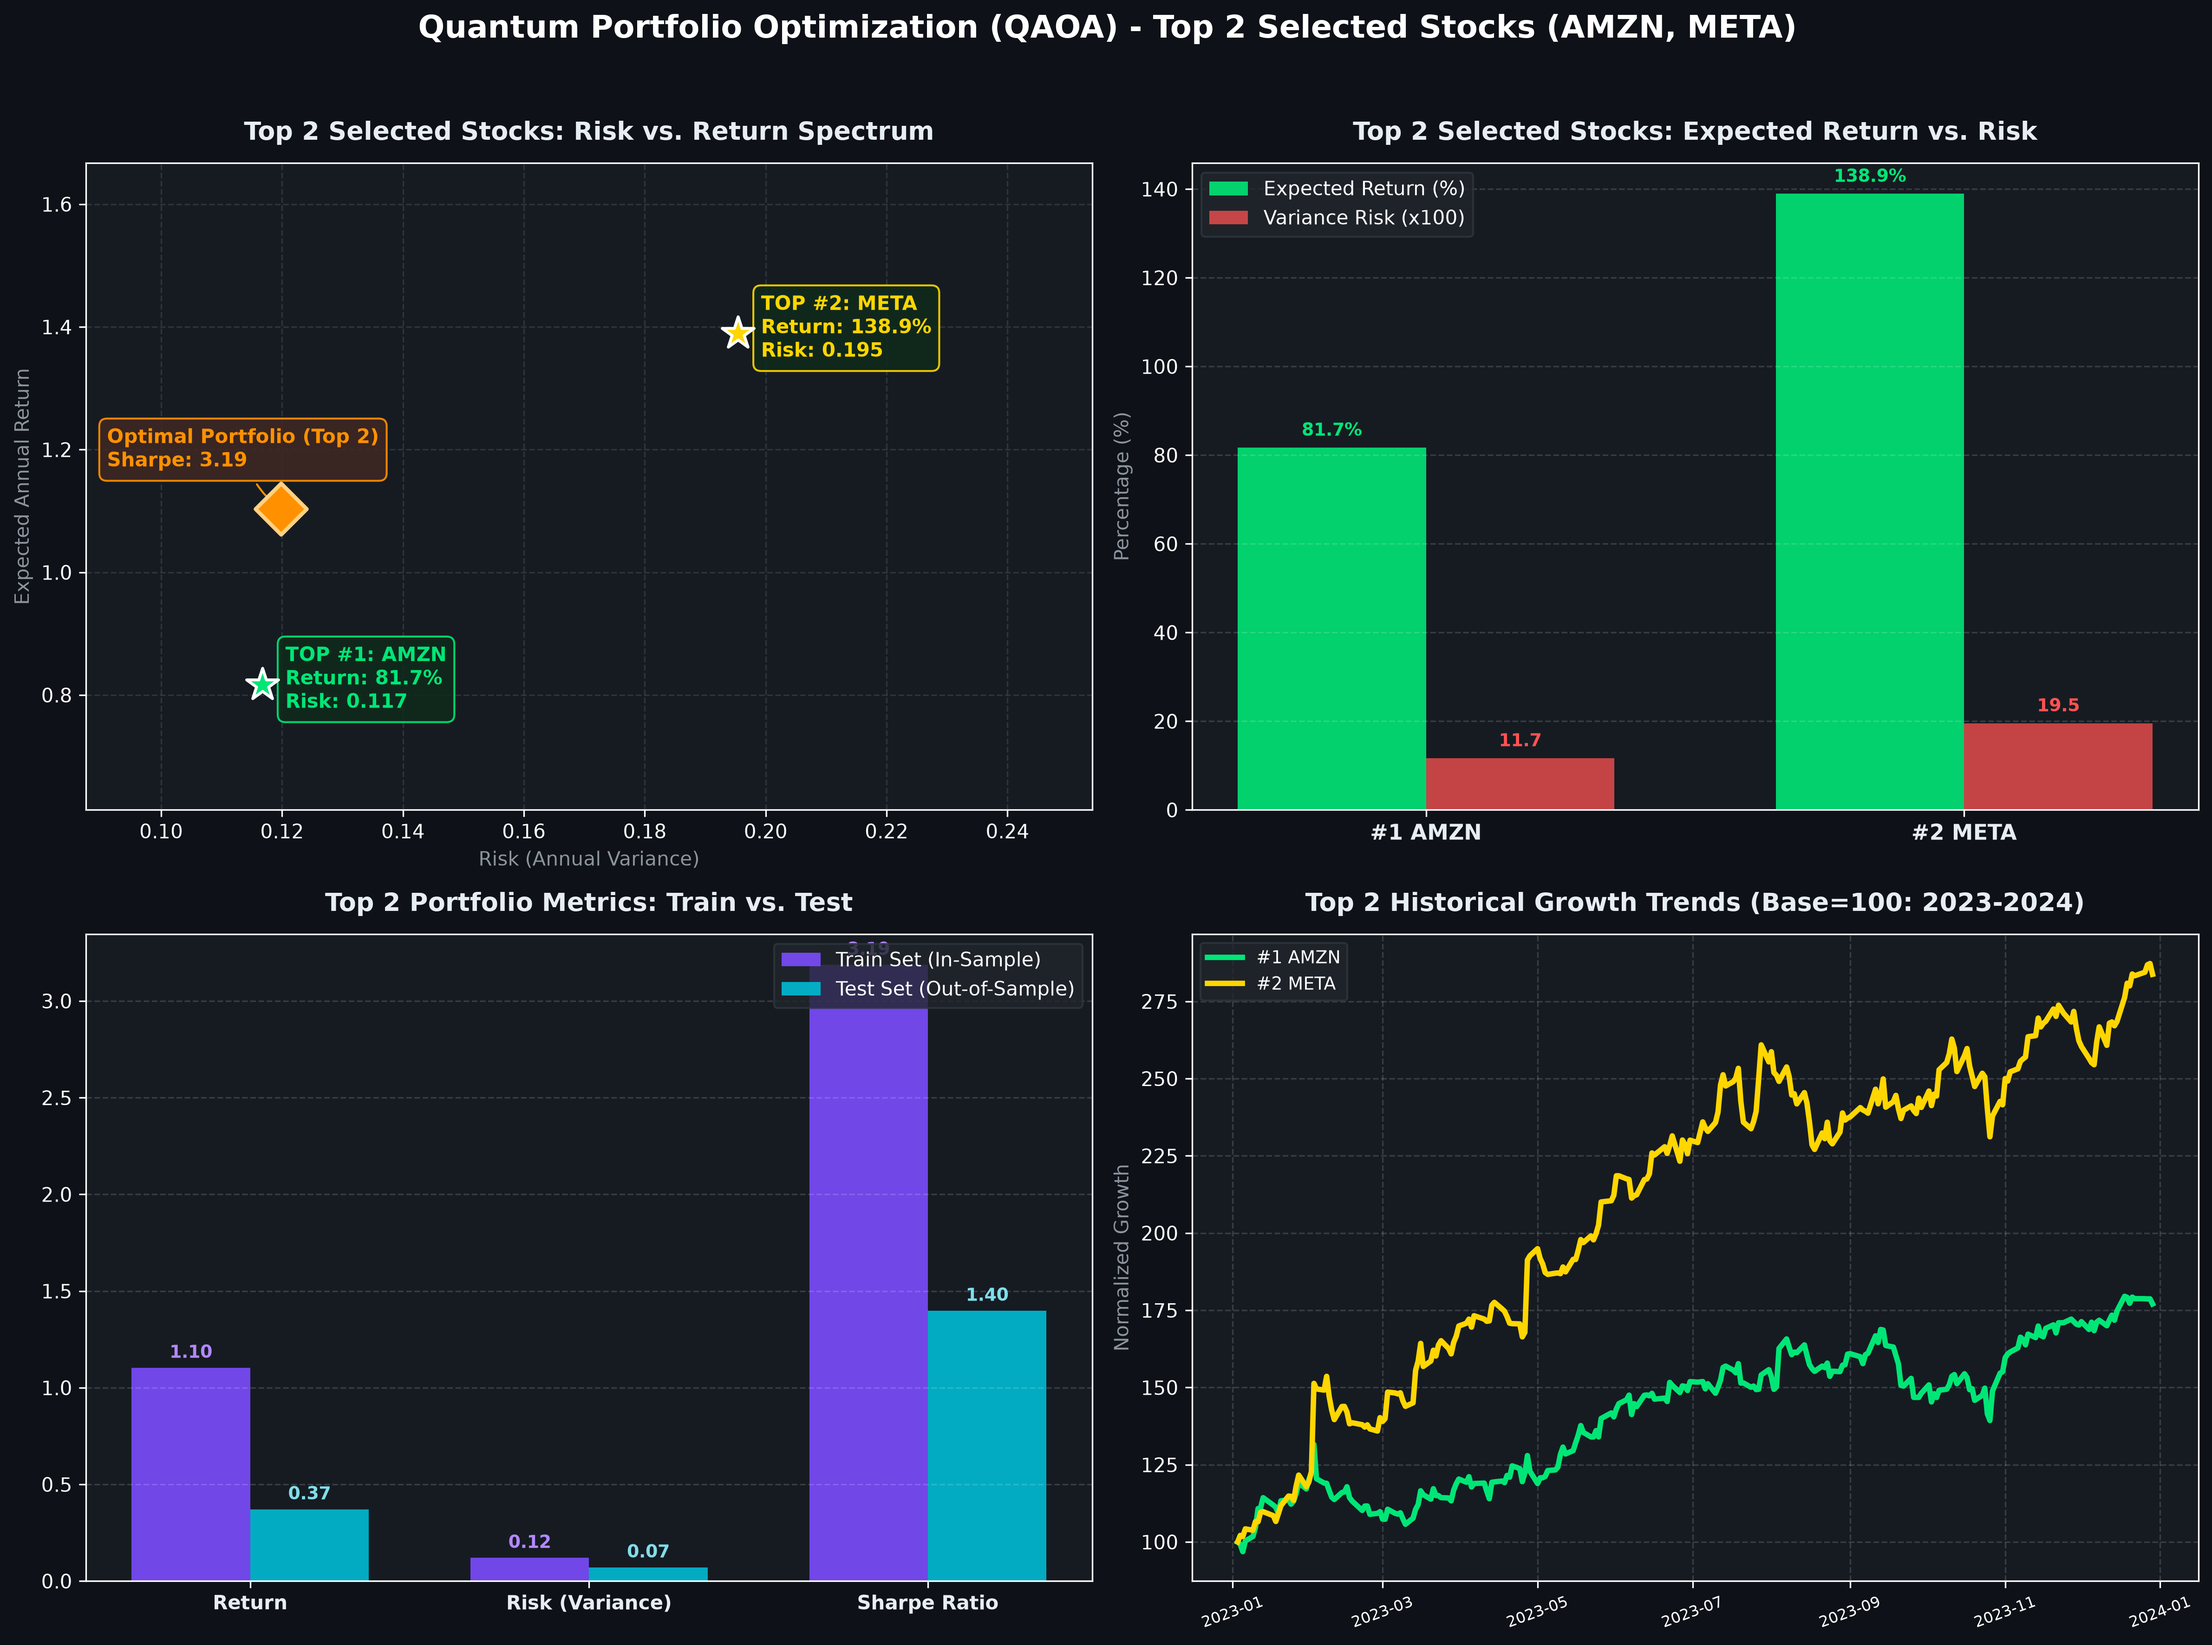
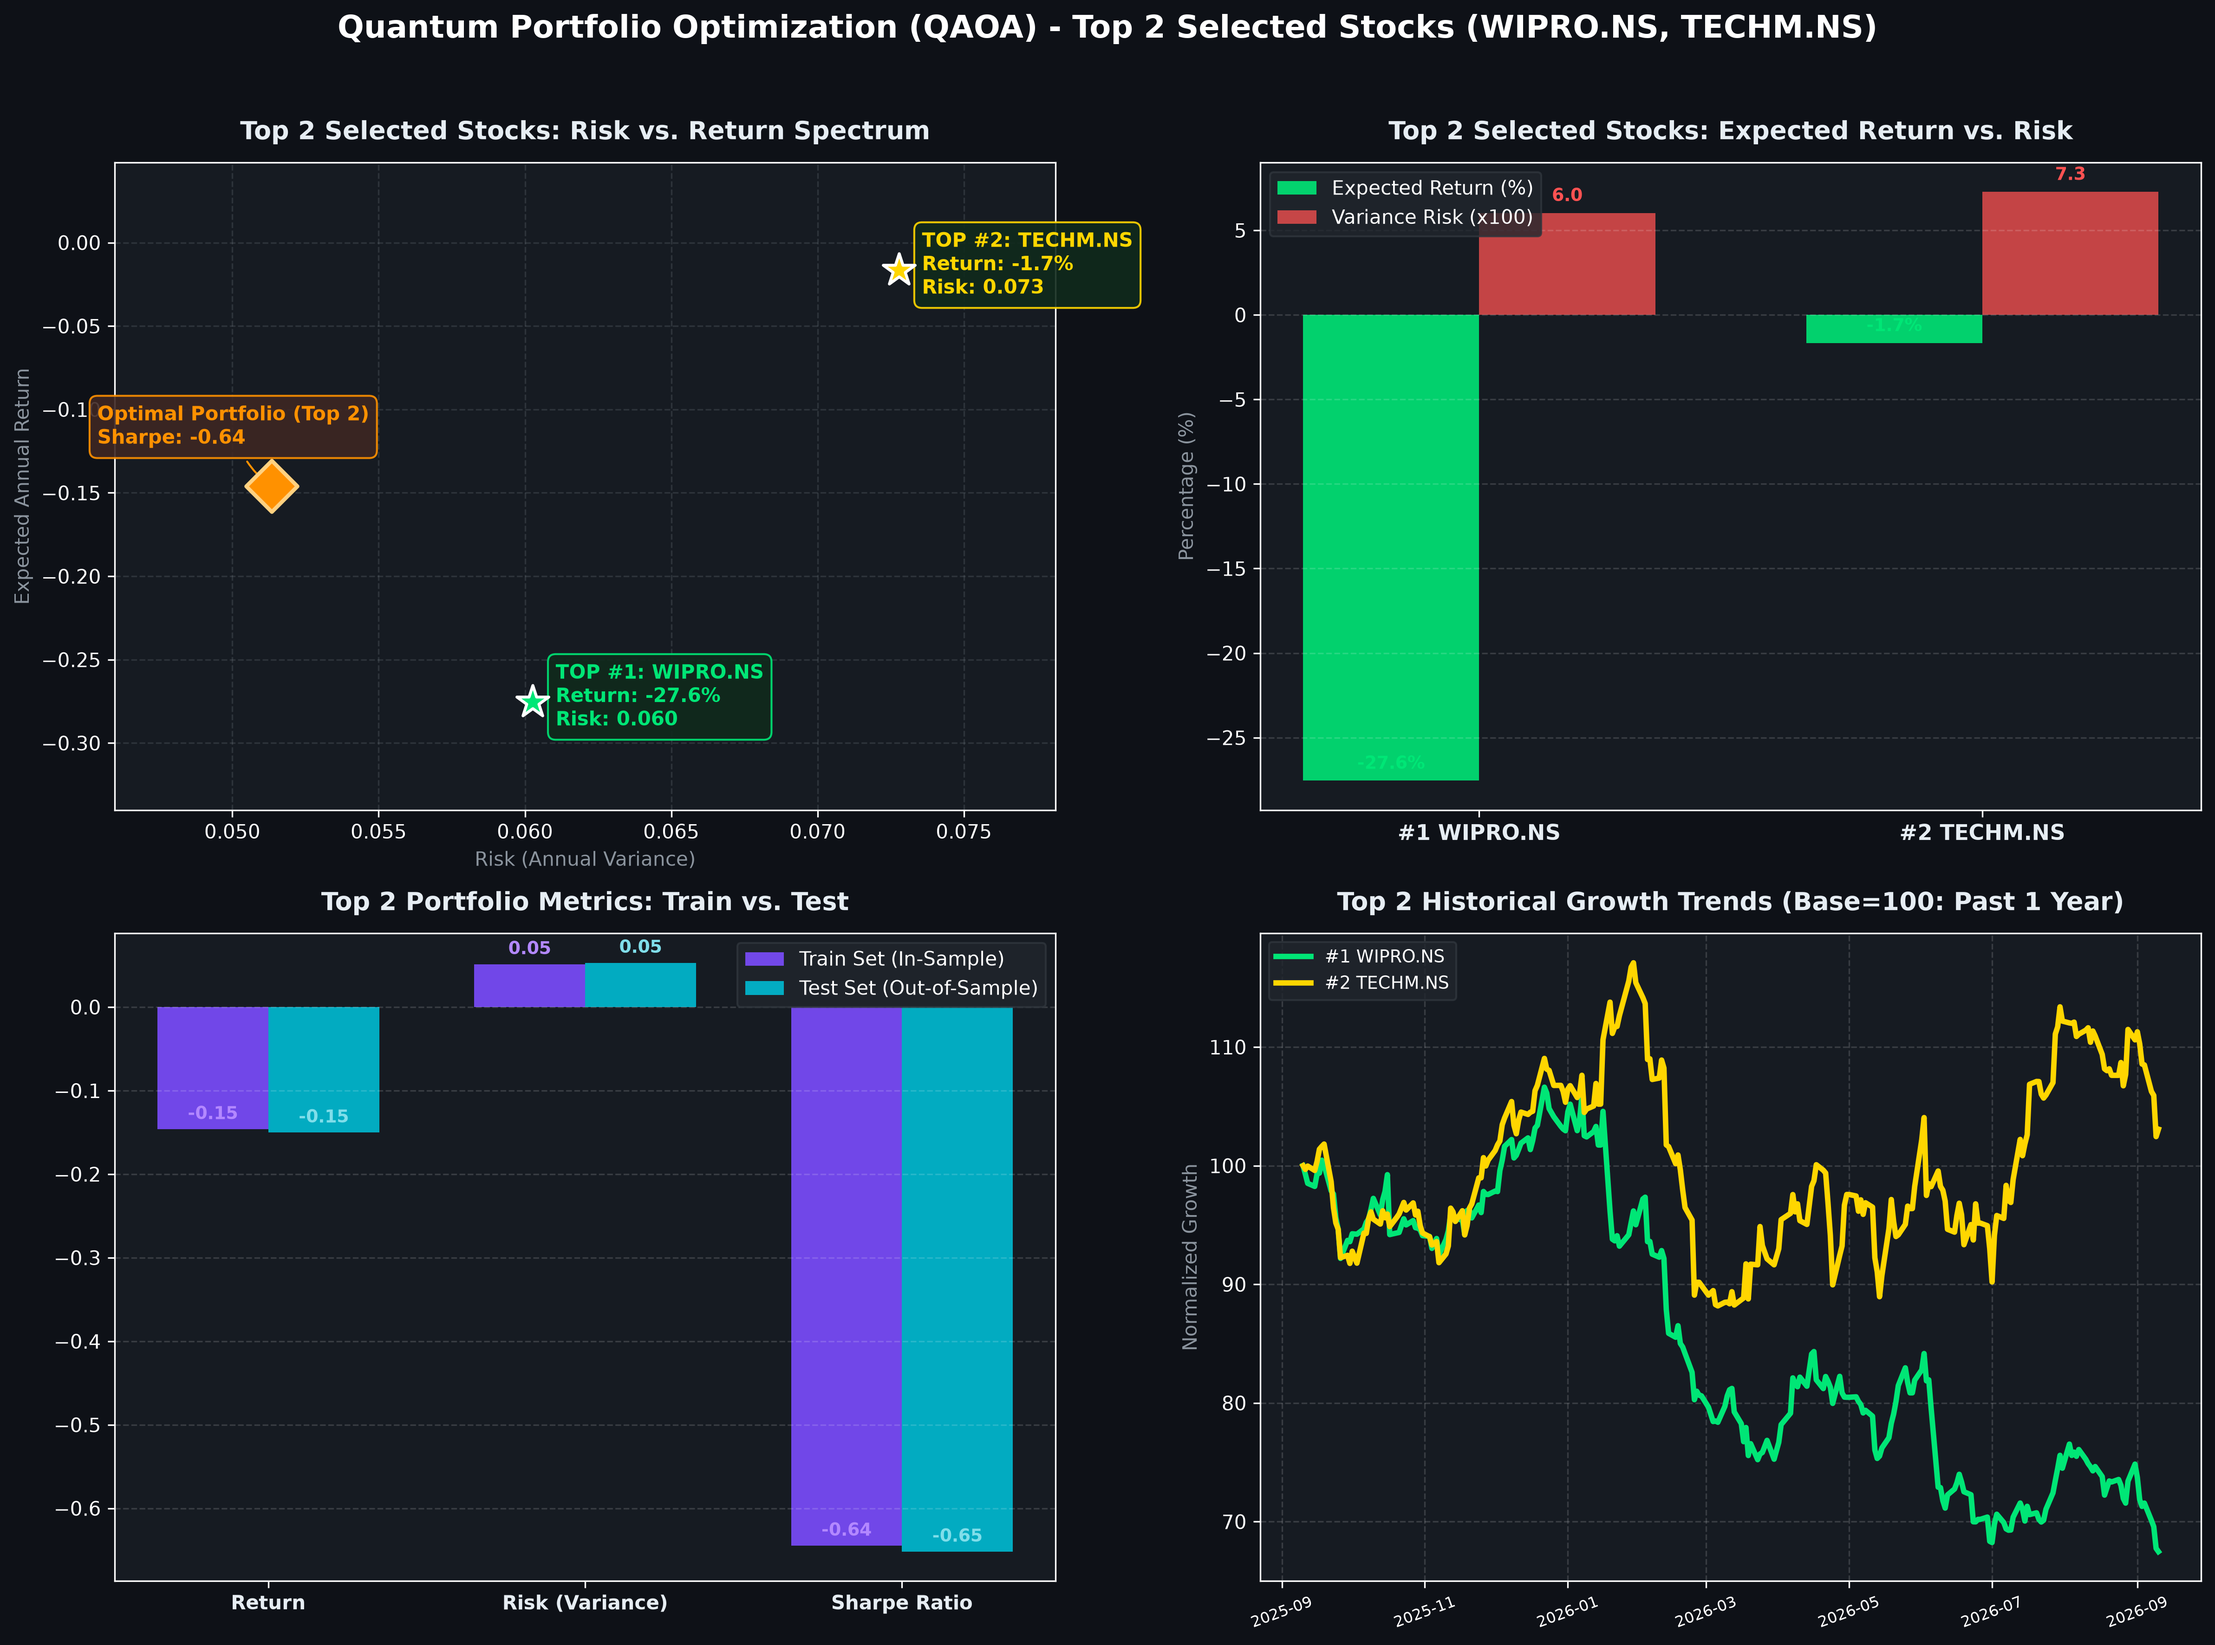
Update portfolio optimization and dashboards to Indian IT top-5 stocks with 1-year historical data

diff --git a/dashboard.py b/dashboard.py
@@ -13,44 +13,44 @@ import yfinance as yf
 import requests
 import streamlit as st
 
-# Default sample data corresponding exactly to the API response from the screenshot
+# Default sample data corresponding to Indian IT Top-5 stocks (Past 1 Year)
 DEFAULT_DATA = {
-    "selected_stocks": ["AMZN", "META"],
+    "selected_stocks": ["WIPRO.NS", "TECHM.NS"],
     "individual_expected_returns": {
-        "AAPL": 0.5093280509863953,
-        "MSFT": 0.5362141861904132,
-        "GOOGL": 0.6686371880979166,
-        "AMZN": 0.8169691192251061,
-        "META": 1.3892890837744931
+        "TCS.NS": -0.36498524013009837,
+        "INFY.NS": -0.3425487024824885,
+        "HCLTECH.NS": -0.24345715250908423,
+        "WIPRO.NS": -0.2755014410208003,
+        "TECHM.NS": -0.016639843463549138
     },
     "individual_risks_variance": {
-        "AAPL": 0.045854012520229526,
-        "MSFT": 0.07247276864429127,
-        "GOOGL": 0.09735240018974581,
-        "AMZN": 0.11670846727142573,
-        "META": 0.19538792152403536
+        "TCS.NS": 0.056445079253561195,
+        "INFY.NS": 0.07284863520026387,
+        "HCLTECH.NS": 0.07047403008486898,
+        "WIPRO.NS": 0.060256301727792366,
+        "TECHM.NS": 0.07277420696439132
     },
-    "train_return": 1.1031291014997997,
-    "train_risk": 0.11984487827941605,
-    "train_sharpe": 3.186530296786172,
-    "test_return": 0.3709302705788555,
-    "test_risk": 0.07040198077689616,
-    "test_sharpe": 1.3979763912169838
+    "train_return": -0.14607064224217473,
+    "train_risk": 0.05133594018021512,
+    "train_sharpe": -0.6446918479777987,
+    "test_return": -0.15013697920700518,
+    "test_risk": 0.05300155127079764,
+    "test_sharpe": -0.6518426033878184
 }
 
-def fetch_historical_prices(tickers, start_date="2023-01-01", end_date="2024-01-01"):
+def fetch_historical_prices(tickers, period="1y"):
     """Fetch historical daily close prices for specified tickers."""
     data = pd.DataFrame()
     for t in tickers:
         try:
-            df = yf.download(t, start=start_date, end=end_date, progress=False)
+            df = yf.download(t, period=period, progress=False)
             if isinstance(df.columns, pd.MultiIndex):
                 data[t] = df[('Close', t)]
             else:
                 data[t] = df['Close']
         except Exception as e:
             print(f"Warning: Could not fetch data for {t}: {e}")
-    return data
+    return data.dropna()
 
 def generate_matplotlib_dashboard(data=DEFAULT_DATA, save_path="top5_stocks_analysis.png", top_only=True):
     """Generate high-quality static Matplotlib visualization dashboard focused on Top Selected Stocks."""
@@ -101,8 +101,14 @@ def generate_matplotlib_dashboard(data=DEFAULT_DATA, save_path="top5_stocks_anal
     ax1.set_ylabel("Expected Annual Return", fontsize=10, color='#8B949E')
     ax1.grid(True, linestyle='--', alpha=0.2, color='#8B949E')
     if x_risks and y_returns:
-        ax1.set_xlim(min(x_risks)*0.75, max(x_risks)*1.3)
-        ax1.set_ylim(min(y_returns)*0.75, max(y_returns)*1.2)
+        all_x = x_risks + [data["train_risk"]]
+        all_y = y_returns + [data["train_return"]]
+        min_x, max_x = min(all_x), max(all_x)
+        min_y, max_y = min(all_y), max(all_y)
+        dx = (max_x - min_x) * 0.25 if max_x > min_x else 0.05
+        dy = (max_y - min_y) * 0.25 if max_y > min_y else 0.05
+        ax1.set_xlim(min_x - dx, max_x + dx)
+        ax1.set_ylim(min_y - dy, max_y + dy)
 
     # 2. Individual Expected Returns & Risk Bar Charts (Top Selected Stocks)
     ax2 = plt.subplot(2, 2, 2)
@@ -172,7 +178,7 @@ def generate_matplotlib_dashboard(data=DEFAULT_DATA, save_path="top5_stocks_anal
             color = palette[i % len(palette)]
             ax4.plot(norm_data.index, norm_data[t], label=f"#{i+1} {t}", linewidth=2.8, color=color)
             
-        ax4.set_title(f"Top {len(selected_stocks)} Historical Growth Trends (Base=100: 2023-2024)", fontsize=13, fontweight='bold', color='#E6EDF3', pad=12)
+        ax4.set_title(f"Top {len(selected_stocks)} Historical Growth Trends (Base=100: Past 1 Year)", fontsize=13, fontweight='bold', color='#E6EDF3', pad=12)
         ax4.set_ylabel("Normalized Growth", fontsize=10, color='#8B949E')
         ax4.legend(loc='upper left', facecolor='#21262D', edgecolor='#30363D', fontsize=9)
         ax4.grid(True, linestyle='--', alpha=0.15)
@@ -216,7 +222,7 @@ def run_streamlit_dashboard():
     
     # Sidebar Controls
     st.sidebar.header("⚙ Optimization Parameters")
-    tickers_input = st.sidebar.text_input("Input Tickers (5 Stocks)", "AAPL, MSFT, GOOGL, AMZN, META")
+    tickers_input = st.sidebar.text_input("Input Tickers (5 Stocks)", "TCS.NS, INFY.NS, HCLTECH.NS, WIPRO.NS, TECHM.NS")
     tickers_all = [t.strip().upper() for t in tickers_input.split(",")]
     
     col_sb1, col_sb2 = st.sidebar.columns(2)

diff --git a/dashboard_api.py b/dashboard_api.py
@@ -13,44 +13,44 @@ import yfinance as yf
 import requests
 import streamlit as st
 
-# Default sample data corresponding exactly to the API response from the screenshot
+# Default sample data corresponding to Indian IT Top-5 stocks (Past 1 Year)
 DEFAULT_DATA = {
-    "selected_stocks": ["AMZN", "META"],
+    "selected_stocks": ["WIPRO.NS", "TECHM.NS"],
     "individual_expected_returns": {
-        "AAPL": 0.5093280509863953,
-        "MSFT": 0.5362141861904132,
-        "GOOGL": 0.6686371880979166,
-        "AMZN": 0.8169691192251061,
-        "META": 1.3892890837744931
+        "TCS.NS": -0.36498524013009837,
+        "INFY.NS": -0.3425487024824885,
+        "HCLTECH.NS": -0.24345715250908423,
+        "WIPRO.NS": -0.2755014410208003,
+        "TECHM.NS": -0.016639843463549138
     },
     "individual_risks_variance": {
-        "AAPL": 0.045854012520229526,
-        "MSFT": 0.07247276864429127,
-        "GOOGL": 0.09735240018974581,
-        "AMZN": 0.11670846727142573,
-        "META": 0.19538792152403536
+        "TCS.NS": 0.056445079253561195,
+        "INFY.NS": 0.07284863520026387,
+        "HCLTECH.NS": 0.07047403008486898,
+        "WIPRO.NS": 0.060256301727792366,
+        "TECHM.NS": 0.07277420696439132
     },
-    "train_return": 1.1031291014997997,
-    "train_risk": 0.11984487827941605,
-    "train_sharpe": 3.186530296786172,
-    "test_return": 0.3709302705788555,
-    "test_risk": 0.07040198077689616,
-    "test_sharpe": 1.3979763912169838
+    "train_return": -0.14607064224217473,
+    "train_risk": 0.05133594018021512,
+    "train_sharpe": -0.6446918479777987,
+    "test_return": -0.15013697920700518,
+    "test_risk": 0.05300155127079764,
+    "test_sharpe": -0.6518426033878184
 }
 
-def fetch_historical_prices(tickers, start_date="2023-01-01", end_date="2024-01-01"):
+def fetch_historical_prices(tickers, period="1y"):
     """Fetch historical daily close prices for specified tickers."""
     data = pd.DataFrame()
     for t in tickers:
         try:
-            df = yf.download(t, start=start_date, end=end_date, progress=False)
+            df = yf.download(t, period=period, progress=False)
             if isinstance(df.columns, pd.MultiIndex):
                 data[t] = df[('Close', t)]
             else:
                 data[t] = df['Close']
         except Exception as e:
             print(f"Warning: Could not fetch data for {t}: {e}")
-    return data
+    return data.dropna()
 
 def generate_matplotlib_dashboard(data=DEFAULT_DATA, save_path="top5_stocks_analysis.png", top_only=True):
     """Generate high-quality static Matplotlib visualization dashboard focused on Top Selected Stocks."""
@@ -101,8 +101,14 @@ def generate_matplotlib_dashboard(data=DEFAULT_DATA, save_path="top5_stocks_anal
     ax1.set_ylabel("Expected Annual Return", fontsize=10, color='#8B949E')
     ax1.grid(True, linestyle='--', alpha=0.2, color='#8B949E')
     if x_risks and y_returns:
-        ax1.set_xlim(min(x_risks)*0.75, max(x_risks)*1.3)
-        ax1.set_ylim(min(y_returns)*0.75, max(y_returns)*1.2)
+        all_x = x_risks + [data["train_risk"]]
+        all_y = y_returns + [data["train_return"]]
+        min_x, max_x = min(all_x), max(all_x)
+        min_y, max_y = min(all_y), max(all_y)
+        dx = (max_x - min_x) * 0.25 if max_x > min_x else 0.05
+        dy = (max_y - min_y) * 0.25 if max_y > min_y else 0.05
+        ax1.set_xlim(min_x - dx, max_x + dx)
+        ax1.set_ylim(min_y - dy, max_y + dy)
 
     # 2. Individual Expected Returns & Risk Bar Charts (Top Selected Stocks)
     ax2 = plt.subplot(2, 2, 2)
@@ -172,7 +178,7 @@ def generate_matplotlib_dashboard(data=DEFAULT_DATA, save_path="top5_stocks_anal
             color = palette[i % len(palette)]
             ax4.plot(norm_data.index, norm_data[t], label=f"#{i+1} {t}", linewidth=2.8, color=color)
             
-        ax4.set_title(f"Top {len(selected_stocks)} Historical Growth Trends (Base=100: 2023-2024)", fontsize=13, fontweight='bold', color='#E6EDF3', pad=12)
+        ax4.set_title(f"Top {len(selected_stocks)} Historical Growth Trends (Base=100: Past 1 Year)", fontsize=13, fontweight='bold', color='#E6EDF3', pad=12)
         ax4.set_ylabel("Normalized Growth", fontsize=10, color='#8B949E')
         ax4.legend(loc='upper left', facecolor='#21262D', edgecolor='#30363D', fontsize=9)
         ax4.grid(True, linestyle='--', alpha=0.15)
@@ -216,7 +222,7 @@ def run_streamlit_dashboard():
     
     # Sidebar Controls
     st.sidebar.header("⚙ Optimization Parameters")
-    tickers_input = st.sidebar.text_input("Input Tickers (5 Stocks)", "AAPL, MSFT, GOOGL, AMZN, META")
+    tickers_input = st.sidebar.text_input("Input Tickers (5 Stocks)", "TCS.NS, INFY.NS, HCLTECH.NS, WIPRO.NS, TECHM.NS")
     tickers_all = [t.strip().upper() for t in tickers_input.split(",")]
     
     col_sb1, col_sb2 = st.sidebar.columns(2)

diff --git a/quantum_portfolio_optimization.py b/quantum_portfolio_optimization.py
@@ -11,19 +11,20 @@ from qiskit_optimization.algorithms import MinimumEigenOptimizer
 
 def main():
     print("=== S1: Download Dataset & Observe Features ===")
-    tickers = ['AAPL', 'MSFT', 'GOOGL', 'AMZN', 'META']
-    print(f"Downloading data for {tickers}...")
+    tickers = ['TCS.NS', 'INFY.NS', 'HCLTECH.NS', 'WIPRO.NS', 'TECHM.NS']
+    print(f"Downloading past 1 year data for {tickers}...")
     
     # Download dataset
     data = pd.DataFrame()
     for t in tickers:
-        df = yf.download(t, start="2023-01-01", end="2024-01-01", progress=False)
+        df = yf.download(t, period="1y", progress=False)
         # Newer yfinance versions return a MultiIndex dataframe when downloading even a single ticker.
         # We extract 'Close' or 'Adj Close' safely.
         if isinstance(df.columns, pd.MultiIndex):
             data[t] = df[('Close', t)]
         else:
             data[t] = df['Close']
+    data = data.dropna()
         
     # Calculate daily returns
     returns = data.pct_change().dropna()

diff --git a/quantum/portfolio_qaoa_ibm.py b/quantum/portfolio_qaoa_ibm.py
@@ -40,14 +40,16 @@ from qiskit_optimization.converters import LinearEqualityToPenalty
 from qiskit_ibm_runtime import QiskitRuntimeService, SamplerV2
 
 
+from datetime import datetime, timedelta
+
 # ============================================================
 # CONFIGURATION
 # ============================================================
 
-TICKERS = ["AAPL", "MSFT", "GOOGL", "AMZN", "META"]
+TICKERS = ["TCS.NS", "INFY.NS", "HCLTECH.NS", "WIPRO.NS", "TECHM.NS"]
 
-START_DATE = "2023-01-01"
-END_DATE = "2024-01-01"
+START_DATE = (datetime.now() - timedelta(days=365)).strftime("%Y-%m-%d")
+END_DATE = datetime.now().strftime("%Y-%m-%d")
 
 Q = 0.5
 K = 2
